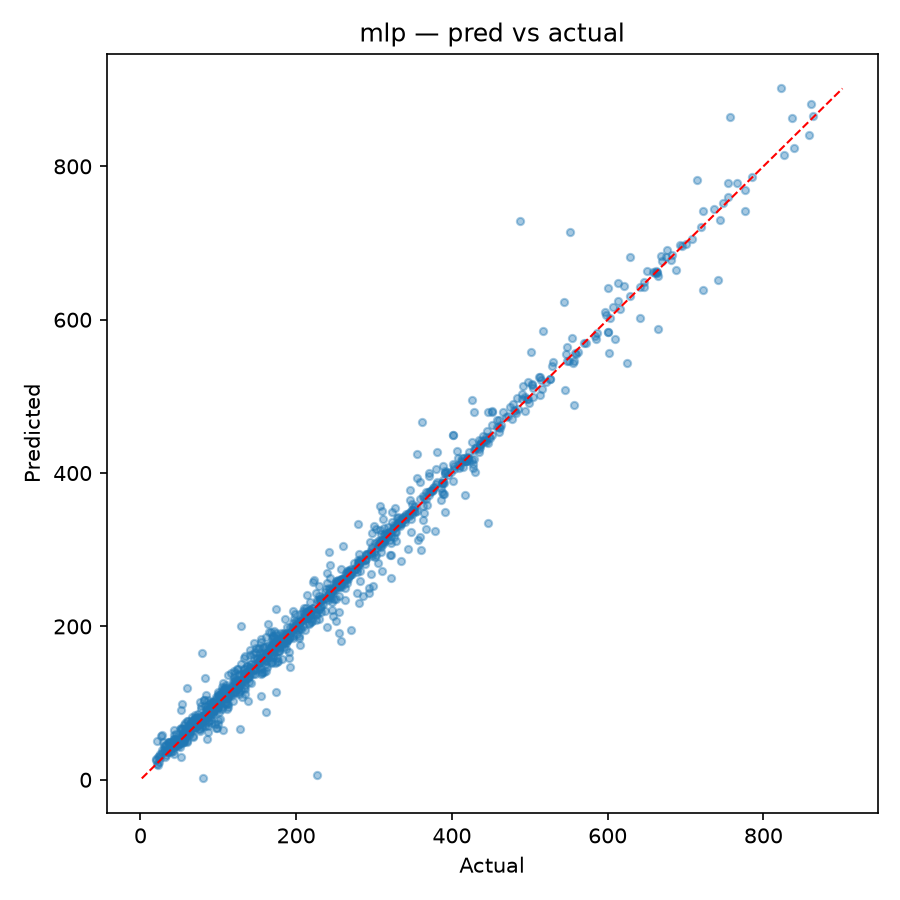
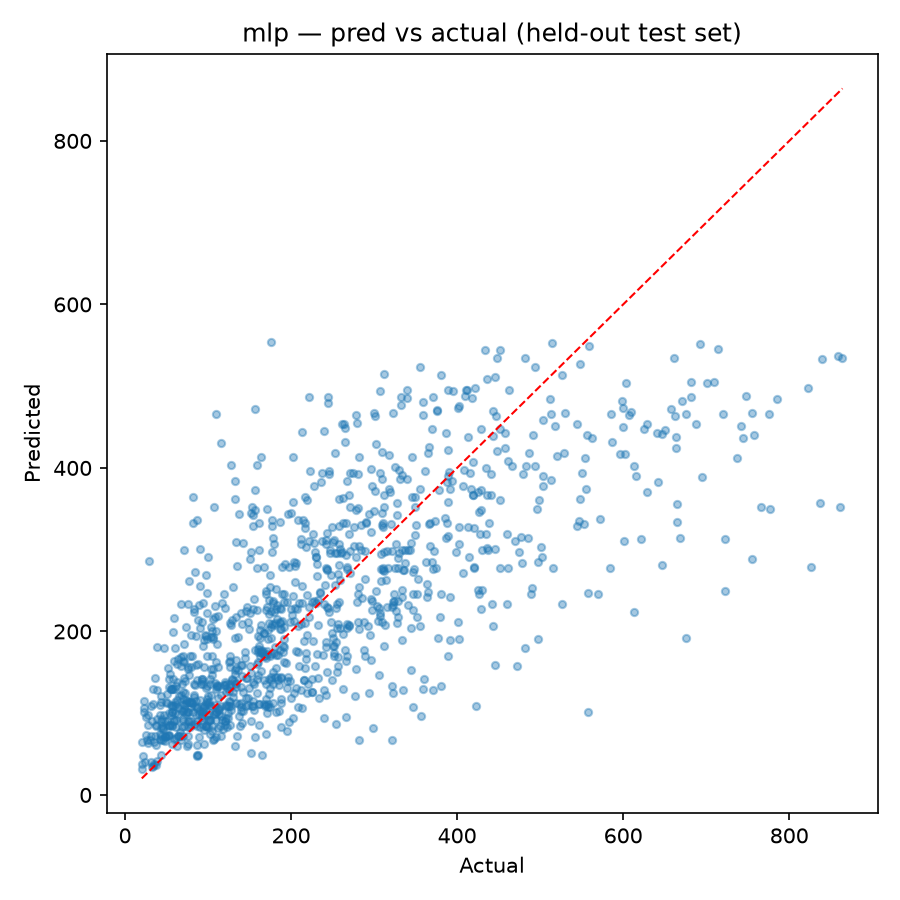
Update pred_vs_actual plotting in run_baselines.py to ensure all predictions use the held-out test set. Replace single plot generation with a loop for improved clarity and consistency. Update corresponding figure file.

diff --git a/scripts/run_baselines.py b/scripts/run_baselines.py
@@ -70,9 +70,14 @@ def main() -> None:
     plot_metrics_bar(df, figures / "baseline_r2.png", "R2")
 
     best = min(metrics.items(), key=lambda kv: kv[1]["RMSE"])[0]
-    plot_pred_vs_actual(y_test, preds[best], figures / f"pred_vs_actual_{best}.png", title=f"{best} — pred vs actual")
-    np.save(processed / f"pred_{best}.npy", preds[best])
+    # All pred-vs-actual plots use the held-out test set (never training predictions).
     for name, pred in preds.items():
+        plot_pred_vs_actual(
+            y_test,
+            pred,
+            figures / f"pred_vs_actual_{name}.png",
+            title=f"{name} — pred vs actual (held-out test set)",
+        )
         np.save(processed / f"pred_{name}.npy", pred)
 
     save_models(models, models_dir)